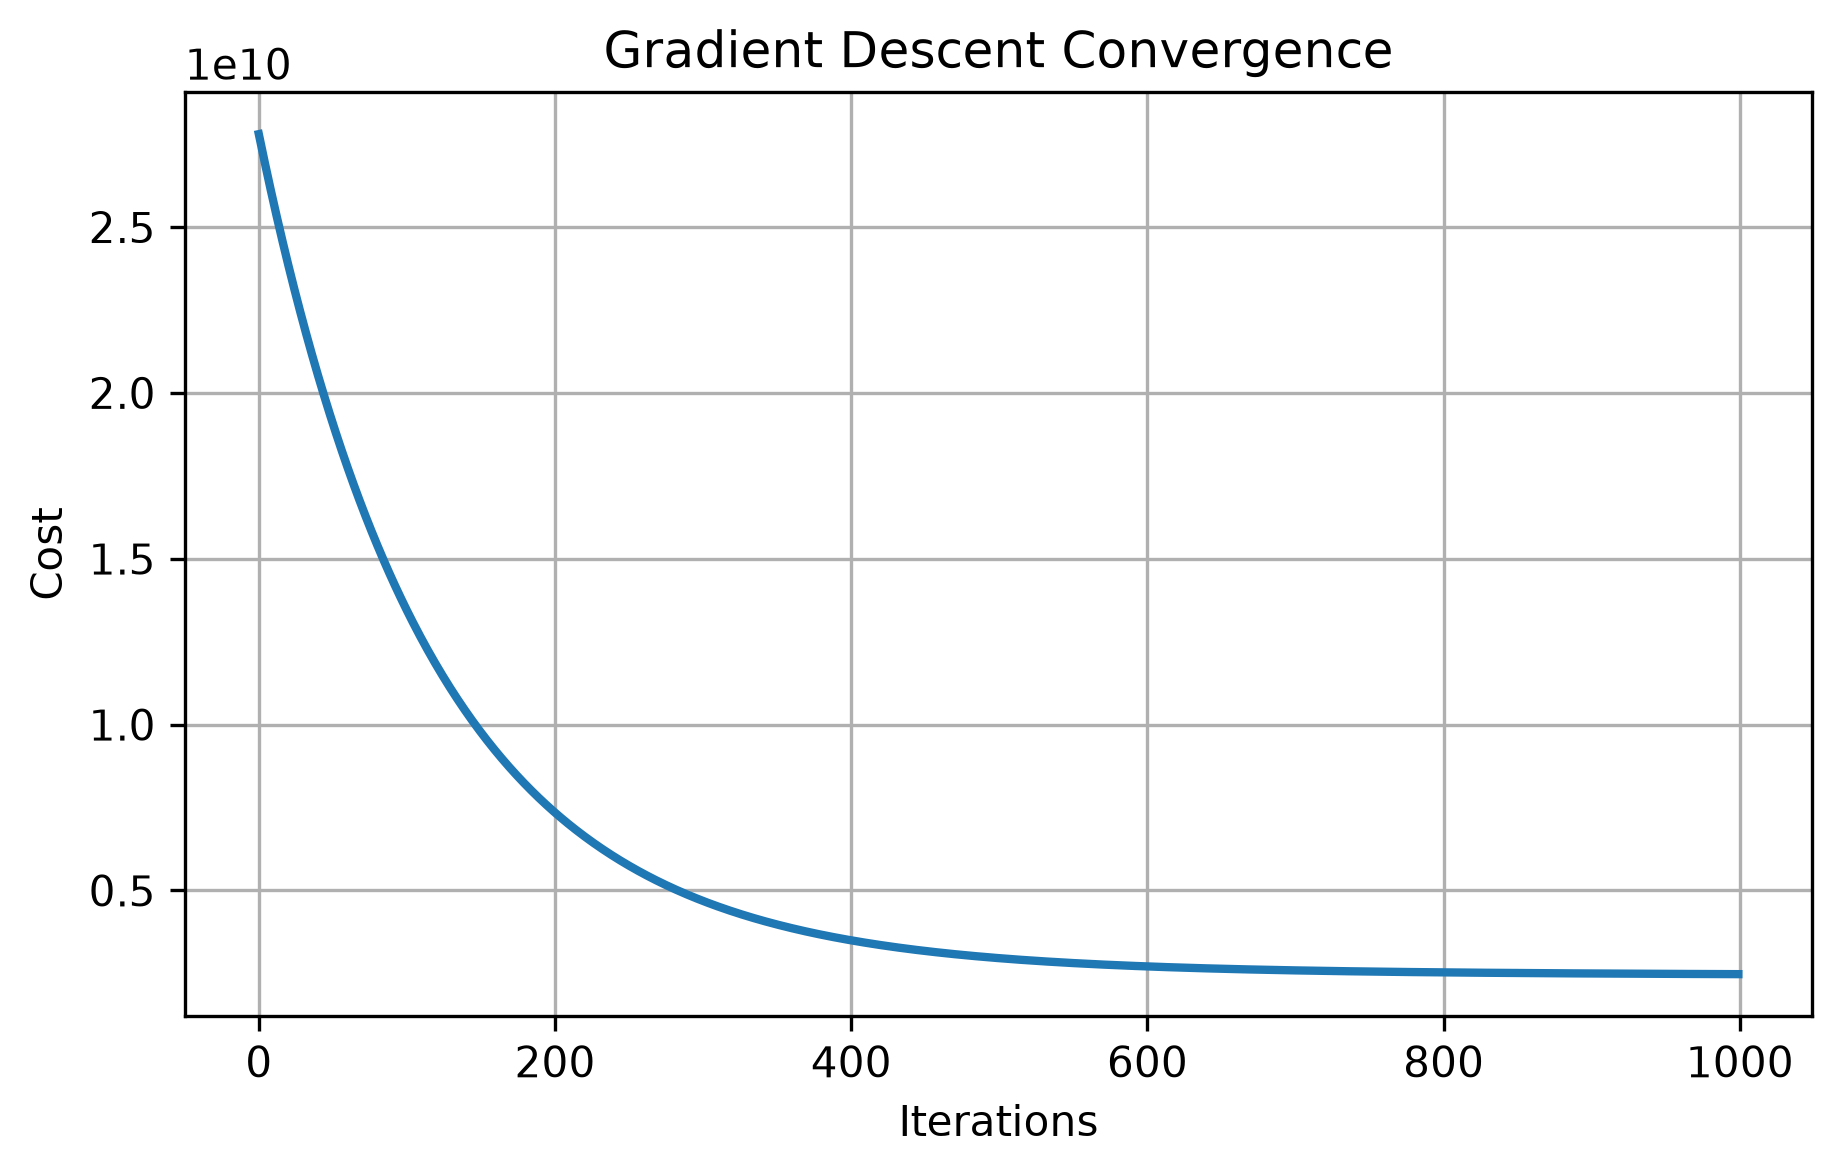
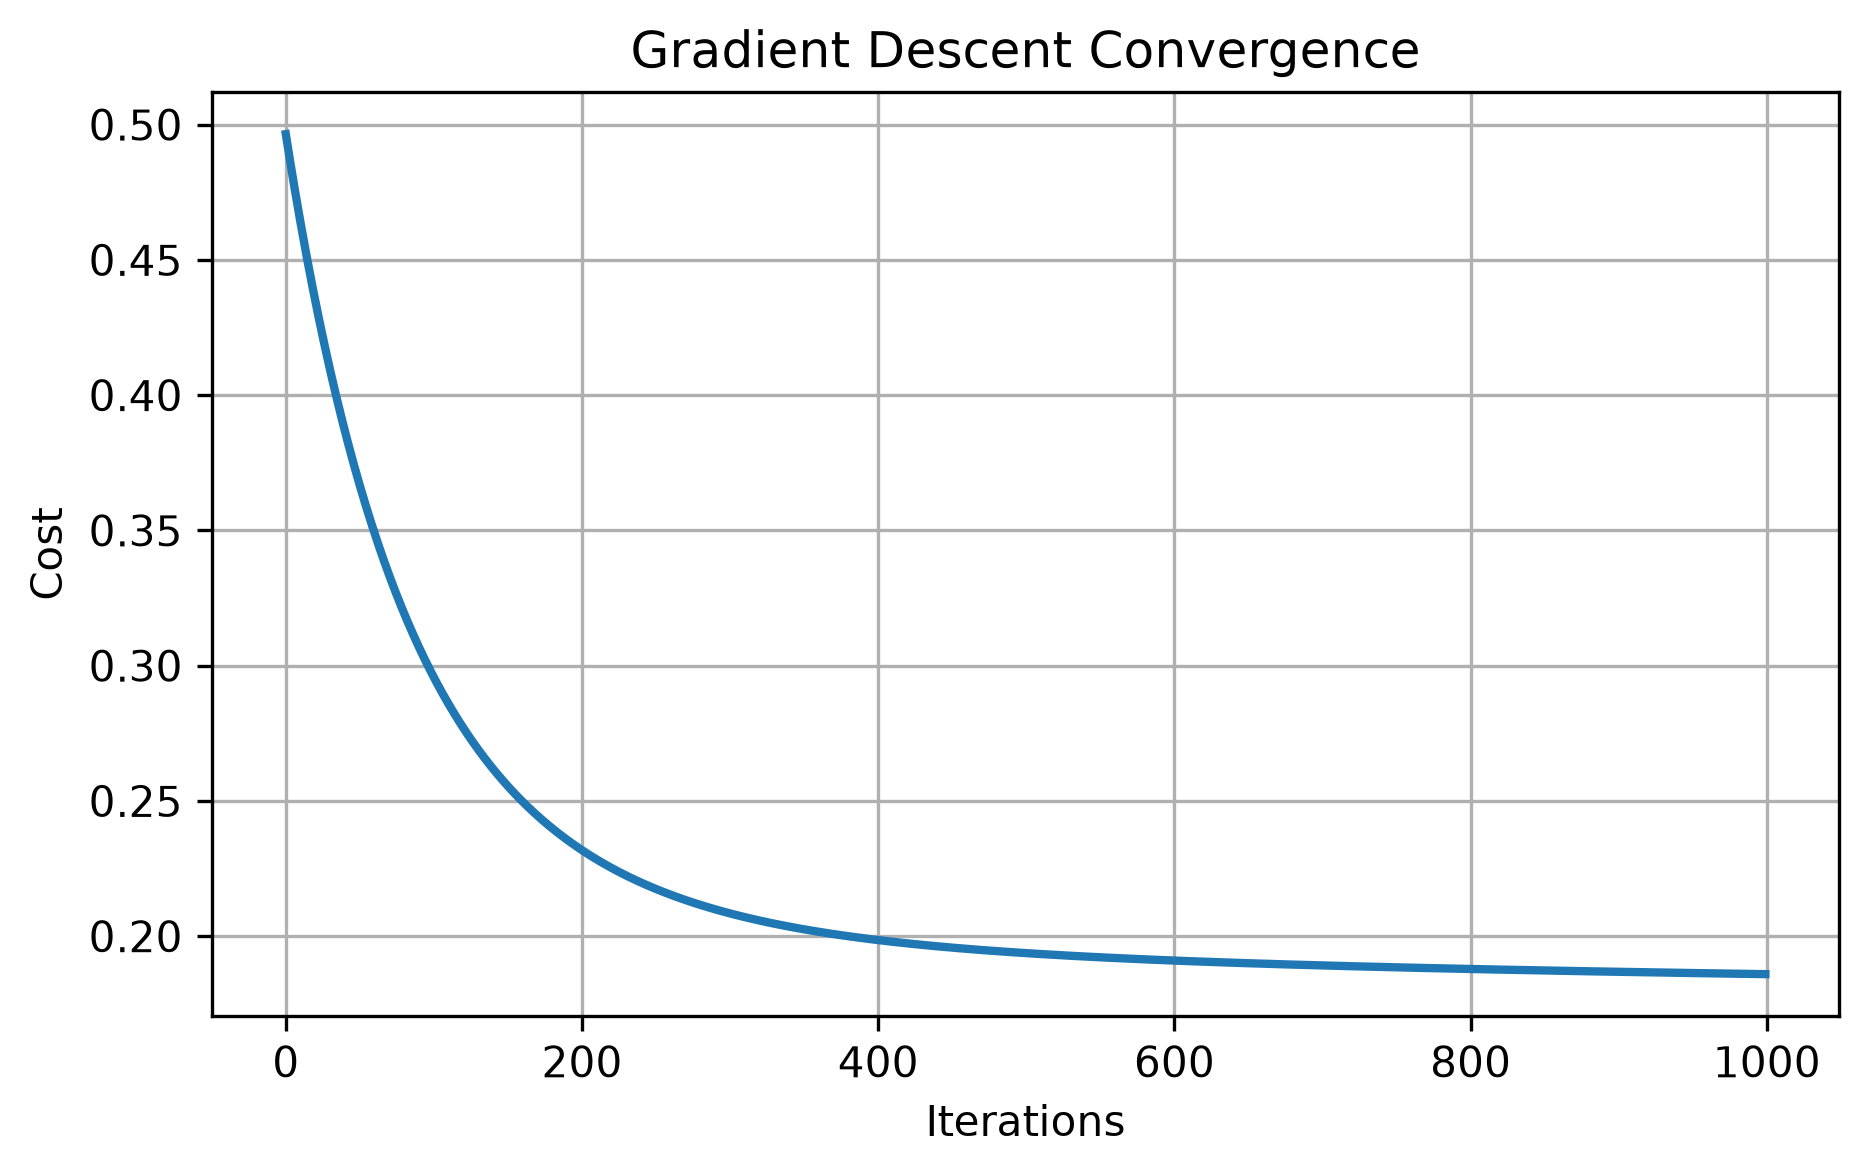
improvement

diff --git a/src/train.py b/src/train.py
@@ -10,6 +10,9 @@ X_train, X_test, y_train, y_test = split_data(X, y)
 X_train, mean, sigma = normalize(X_train)
 X_test = (X_test - mean) / sigma
 
+y_train, mu, sig = normalize(y_train)
+y_test = (y_test - mu) / sig
+
 w = np.zeros((X_train.shape[1], 1))
 b = 0 
 
@@ -32,8 +35,8 @@ print("Model Performance")
 print("----------------------------")
 print(f"Train Cost : {train_cost:.2f}")
 print(f"Test Cost  : {test_cost:.2f}")
-print(f"Train RMSE : ${train_rmse:,.2f}")
-print(f"Test RMSE  : ${test_rmse:,.2f}")
+print(f"Train RMSE : {train_rmse:,.2f}")
+print(f"Test RMSE  : {test_rmse:,.2f}")
 print(f"Train R²   : {train_r2:.4f}")
 print(f"Test R²    : {test_r2:.4f}")
 

diff --git a/src/model.py b/src/model.py
@@ -10,10 +10,7 @@ def compute_cost(X, y, w, b):
     y_hat = predict(X, w, b)
 
     cost = 0.0
-    for i in range(m):
-        error = y_hat[i, 0] - y[i, 0]
-        cost += error ** 2
-
+    cost = np.sum((y_hat - y) ** 2 )
     return cost / (2 * m)
 
 def gradient_descent(X, y, w, b, alpha, iterations):
